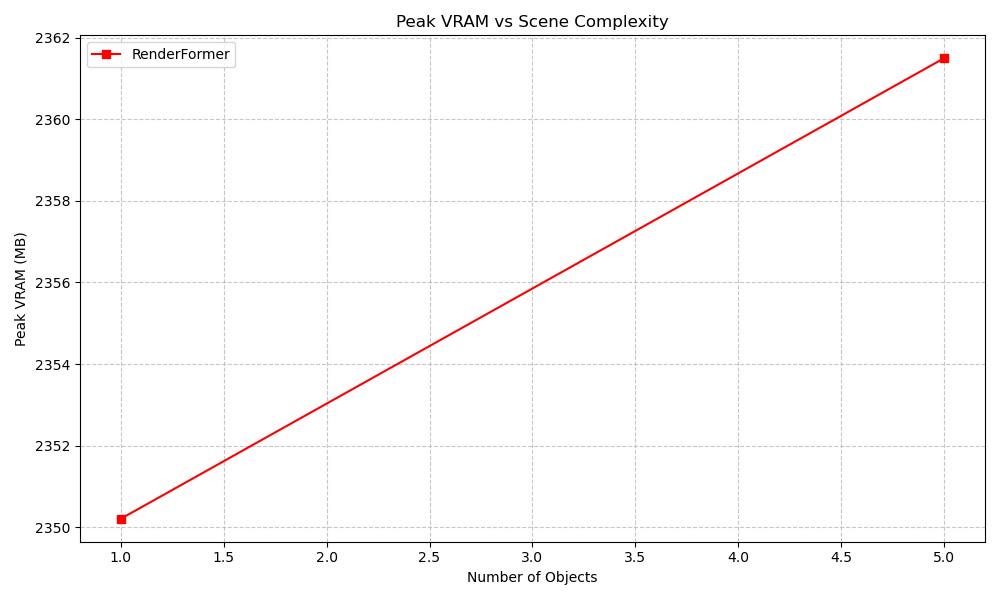
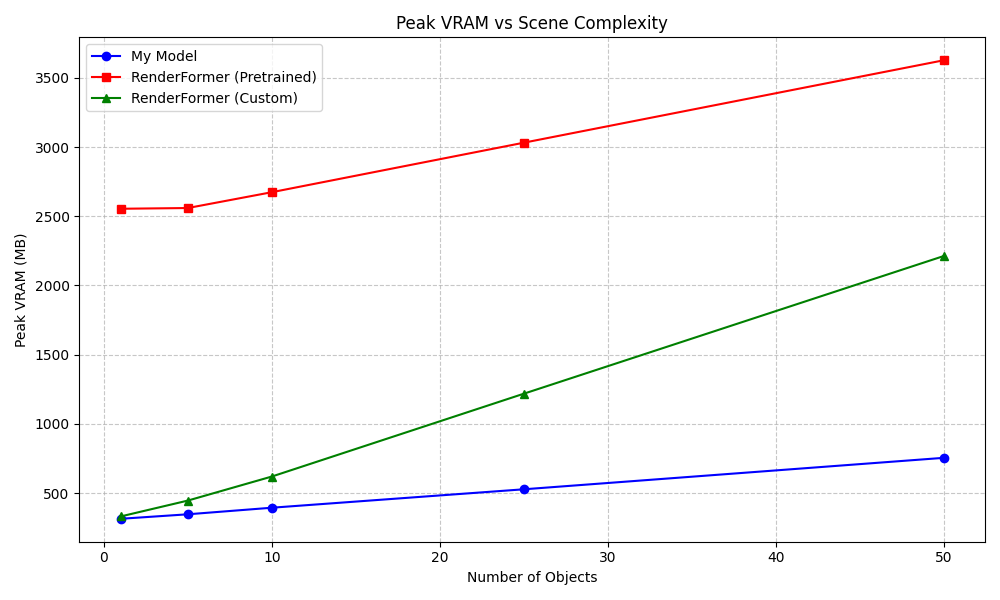
Fix up benchmarking scripts and save updated results/plots

diff --git a/benchmarking/run_efficiency_benchmark.py b/benchmarking/run_efficiency_benchmark.py
@@ -1,3 +1,15 @@
+"""
+Run:
+python benchmarking/run_efficiency_benchmark.py \
+    --nmr_pkg_path training/logs/rf_ds2_chairs1-3_cbox0-3/20260627-195131_throwaway_run_for_package/checkpoints/model_package_epoch_5.pt \
+    --renderformer_checkpoint_path /home/sazhang/Neural-Radiosity-Renderer/renderformer/training/logs/ds2_chairs1-3_cbox0-3/20260623-154203_full_ds_params46M_res128x128/checkpoints/model_epoch_20000.pt \
+    --renderformer_pretrained_id microsoft/renderformer-v1.1-swin-large \
+    --out_csv benchmarking/efficiency_benchmark_results.csv \
+    --resolution 128 \
+    --faces_per_obj 512
+
+"""
+
 import os
 import torch
 import argparse
@@ -137,7 +149,6 @@ def run_mymodel_benchmark(pkg_path, obj_counts, faces_per_object, resolution, wa
     device = torch.device('cuda' if torch.cuda.is_available() else 'cpu')
     
     try:
-        import torch.package
         imp = torch.package.PackageImporter(pkg_path)
         model = imp.load_pickle("model", "model.pkl")
         model.eval()
@@ -165,7 +176,7 @@ def run_mymodel_benchmark(pkg_path, obj_counts, faces_per_object, resolution, wa
         
         try:
             # Warmup
-            with torch.no_grad():
+            with torch.no_grad(), torch.amp.autocast('cuda', dtype=torch.bfloat16):
                 for _ in range(warmup):
                     _ = model(
                         rays_o=rays_o,
@@ -183,7 +194,7 @@ def run_mymodel_benchmark(pkg_path, obj_counts, faces_per_object, resolution, wa
             end_event = torch.cuda.Event(enable_timing=True)
             
             start_event.record()
-            with torch.no_grad():
+            with torch.no_grad(), torch.amp.autocast('cuda', dtype=torch.bfloat16):
                 for _ in range(repeats):
                     _ = model(
                         rays_o=rays_o,
@@ -214,7 +225,7 @@ def run_mymodel_benchmark(pkg_path, obj_counts, faces_per_object, resolution, wa
 def main():
     parser = argparse.ArgumentParser(description="Benchmark inference efficiency vs scene complexity")
     parser.add_argument("--nmr_pkg_path", type=str, default="training/logs/YOUR_RUN_ID/checkpoints/model_package_epoch_500.pt", help="Path to your packaged model .pt")
-    parser.add_argument("--renderformer_checkpoint_path", type=str, default="training/logs/YOUR_RUN_ID/checkpoints/model_package_epoch_500.pt", help="Path to your trained RenderFormer .pt checkpoint (optional)")
+    parser.add_argument("--renderformer_checkpoint_path", type=str, default=None, help="Path to your trained RenderFormer .pt checkpoint (optional)")
     parser.add_argument("--renderformer_pretrained_id", type=str, default="microsoft/renderformer-v1.1-swin-large", help="RenderFormer model ID/path")
     parser.add_argument("--out_csv", type=str, default="benchmarking/efficiency_benchmark_results.csv", help="Output CSV path")
     parser.add_argument("--resolution", type=int, default=128, help="Rendering resolution for benchmarks")
@@ -222,13 +233,13 @@ def main():
     
     args = parser.parse_args()
     
-    obj_counts = [1, 5]#, 10, 25, 50]
+    obj_counts = [1, 5, 10, 25, 50]
     # obj_counts = [1, 5, 10, 20, 30, 40, 50, 60, 70, 80, 90, 100, 200, 300, 400, 500]
     
     os.makedirs(os.path.dirname(os.path.abspath(args.out_csv)), exist_ok=True)
     
     # Run benchmarks
-    my_model =  {} #run_mymodel_benchmark(args.nmr_pkg_path, obj_counts, args.faces_per_obj, args.resolution)
+    my_model =  run_mymodel_benchmark(args.nmr_pkg_path, obj_counts, args.faces_per_obj, args.resolution)
     
     renderformer_custom = {}
     renderformer_pt = {}
@@ -242,7 +253,7 @@ def main():
     # Save to CSV
     with open(args.out_csv, 'w', newline='') as f:
         writer = csv.writer(f)
-        writer.writerow(['num_objects', 'my_model_time_ms', 'my_model_mem_mb', 'renderformer_time_ms', 'renderformer_mem_mb'])
+        writer.writerow(['num_objects', 'my_model_time_ms', 'my_model_mem_mb', 'renderformer_pretrained_time_ms', 'renderformer_pretrained_mem_mb', 'renderformer_custom_time_ms', 'renderformer_custom_mem_mb'])
         
         for n in obj_counts:
             my_time = my_model.get(n, {}).get('time_ms', '')

diff --git a/benchmarking/plot_benchmark_results.py b/benchmarking/plot_benchmark_results.py
@@ -1,3 +1,8 @@
+"""
+Run python benchmarking/plot_benchmark_results.py --csv_file benchmarking/efficiency_benchmark_results.csv
+
+"""
+
 import os
 import argparse
 import pandas as pd
@@ -5,8 +10,8 @@ import matplotlib.pyplot as plt
 
 def main():
     parser = argparse.ArgumentParser(description="Plot benchmarking results")
-    parser.add_argument("--csv_file", type=str, default="efficiency_benchmark_results.csv", help="Path to the benchmarking CSV file")
-    parser.add_argument("--out_dir", type=str, default=".", help="Directory to save the output plots")
+    parser.add_argument("--csv_file", type=str, default="benchmarking/efficiency_benchmark_results.csv", help="Path to the benchmarking CSV file")
+    parser.add_argument("--out_dir", type=str, default="benchmarking", help="Directory to save the output plots")
     
     args = parser.parse_args()
     
@@ -20,7 +25,7 @@ def main():
     df.replace('OOM', pd.NA, inplace=True)
     
     # Convert numerical columns
-    cols_to_convert = ['my_model_time_ms', 'my_model_mem_mb', 'renderformer_time_ms', 'renderformer_mem_mb']
+    cols_to_convert = ['my_model_time_ms', 'my_model_mem_mb', 'renderformer_pretrained_time_ms', 'renderformer_pretrained_mem_mb', 'renderformer_custom_time_ms', 'renderformer_custom_mem_mb']
     for col in cols_to_convert:
         df[col] = pd.to_numeric(df[col], errors='coerce')
         
@@ -30,8 +35,10 @@ def main():
     plt.figure(figsize=(10, 6))
     if not df['my_model_time_ms'].isna().all():
         plt.plot(df['num_objects'], df['my_model_time_ms'], marker='o', label='My Model', color='blue')
-    if not df['renderformer_time_ms'].isna().all():
-        plt.plot(df['num_objects'], df['renderformer_time_ms'], marker='s', label='RenderFormer', color='red')
+    if not df['renderformer_pretrained_time_ms'].isna().all():
+        plt.plot(df['num_objects'], df['renderformer_pretrained_time_ms'], marker='s', label='RenderFormer (Pretrained)', color='red')
+    if not df['renderformer_custom_time_ms'].isna().all():
+        plt.plot(df['num_objects'], df['renderformer_custom_time_ms'], marker='^', label='RenderFormer (Custom)', color='green')
         
     plt.title('Inference Time vs Scene Complexity')
     plt.xlabel('Number of Objects')
@@ -47,8 +54,10 @@ def main():
     plt.figure(figsize=(10, 6))
     if not df['my_model_mem_mb'].isna().all():
         plt.plot(df['num_objects'], df['my_model_mem_mb'], marker='o', label='My Model', color='blue')
-    if not df['renderformer_mem_mb'].isna().all():
-        plt.plot(df['num_objects'], df['renderformer_mem_mb'], marker='s', label='RenderFormer', color='red')
+    if not df['renderformer_pretrained_mem_mb'].isna().all():
+        plt.plot(df['num_objects'], df['renderformer_pretrained_mem_mb'], marker='s', label='RenderFormer (Pretrained)', color='red')
+    if not df['renderformer_custom_mem_mb'].isna().all():
+        plt.plot(df['num_objects'], df['renderformer_custom_mem_mb'], marker='^', label='RenderFormer (Custom)', color='green')
         
     plt.title('Peak VRAM vs Scene Complexity')
     plt.xlabel('Number of Objects')